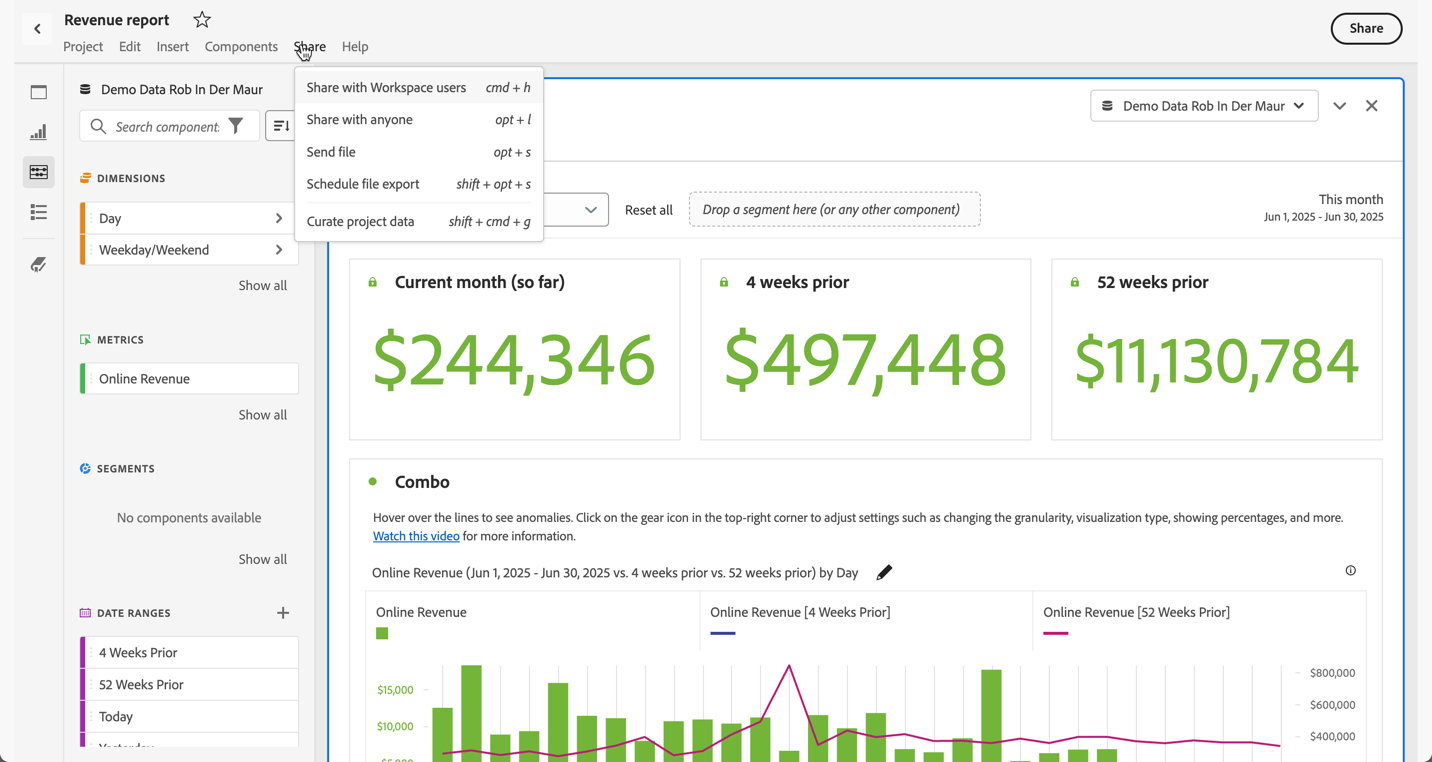
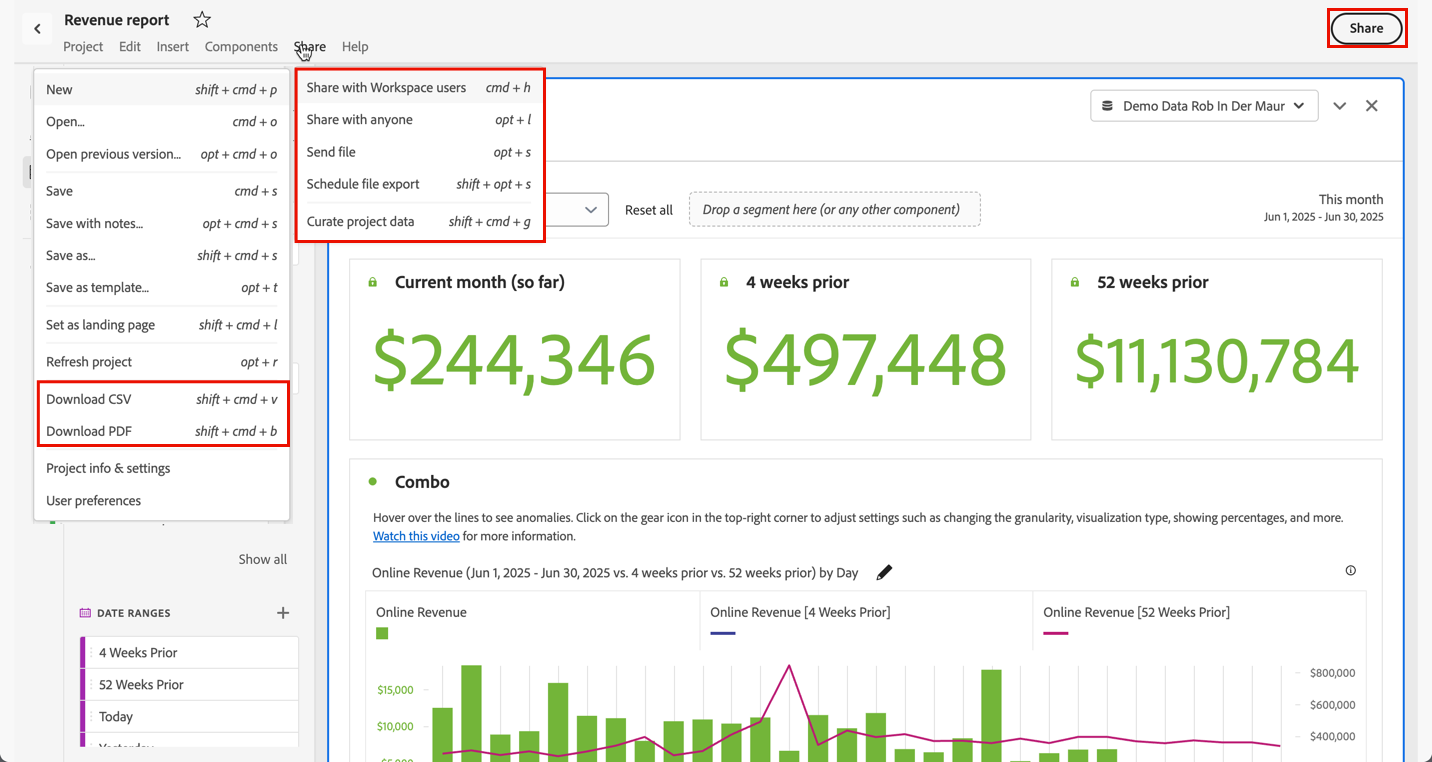
Updates

Changed region(s): [[0.0, 0.0906, 0.3687, 0.3924], [0.0, 0.4226, 0.2151, 0.6942], [0.9218, 0.0, 0.9832, 0.0604]]

diff --git a/help/analyze/analysis-workspace/curate-share/download-send.md b/help/analyze/analysis-workspace/curate-share/download-send.md
@@ -1,11 +1,126 @@
 ---
-description: You can download data from Analysis Workspace by copying it, or in PDF and CSV formats.
-title: Download PDF or CSV files
+description: Learn about the various possibilities to download data from your Analysis Workspace project.
+title: Download Analysis Workspace Projects And Data
 feature: Curate and Share
 role: User, Admin
 exl-id: 085013dc-8263-4fc8-9492-99f0ecadf14b
 ---
-# Download PDF or CSV files
+
+# Download projects and data
+
+You can download Analysis Workspace projects and data to your local device. This download can be copied data, a CSV (comma separated value data) file, or a PDF (portable document format) document. 
+
+* Select the PDF option if you want visualizations included in the downloaded file. 
+* Select the CSV and copied data options if you simply need plain-text data.
+
+Additional methods to export Adobe Analytics data are described in the [Export guide](/help/export/home.md).
+
+## Download as CSV or PDF {#download-project}
+
+![The Project drop-down menue with the Download CSV and Download PDF options highlighted.](assets/download-project.png)
+
+Consider the following when you download a project as a PDF:
+
+* The download can take several minutes as the project is rerun on Adobe servers to render in PDF format. Do not leave the project until the project downloads in your browser.  You can continue to make changes to the project while the download is rendered. If a PDF takes longer than 5 minutes to render, you are prompted to [email the PDF](../curate-share/send-schedule-files.md) instead.
+* Downloads are rendered as a single page with no pagination applied.
+* The PDF contain what is visible in the browser page in Analysis Workspace. You need to auto-size custom-sized visualizations and panels to avoid truncated content. Select ![Resize](/help/assets/icons/Resize.svg) to auto-size a custom-sized visualization or panel.
+* [Hyperlinks](/help/analysis-workspace/visualizations/freeform-table/freeform-table-hyperlinks.md) within freeform tables  as hyperlinks in the downloaded PDF. 
+
+
+
+To download a project as a PDF file:
+
+1. Select **[!UICONTROL Project]** > **[!UICONTROL Download PDF]**. 
+   A green bar with the message ![CheckmarkCircle](/help/assets/icons/CheckmarkCircle.svg) **[!UICONTROL Your download has been requested. Please wait.]** is displayed.
+   
+1. As soon your download is ready, a green bar with the message ![CheckmarkCircle](/help/assets/icons/CheckmarkCircle.svg) **[!UICONTROL *Name of the project* PDF is ready.]** appears.
+Select **[!UICONTROL Download]** to download the PDF. How exactly the PDF is presented or downloaded is dependent on your browser configuration to handle PDF documents.
+
+
+To download a project as a CSV file:
+
+* Select **[!UICONTROL Project]** > **[!UICONTROL Download CSV]**. The project directly downloads to the download folder configured as part of your browser configuration. The file name is composed of *project name* - *report suite name* - *date*, for example `Example Project - Omni-Channel - Luma - Jun 30, 2025.csv`.
+
+## Copy to clipboard {#copy-data}
+
+The **[!UICONTROL Copy to clipboard]** option from the context menu lets you quickly copy data from Analysis Workspace and paste the data in a third-party tool. 
+
+* If you want the displayed table data copied, select the table header and select **Copy data to clipboard** from the context menu.
+* If you want a subset of the data copied, make a selection in the table and select **Copy selection to clipboard** from the context menu.
+
+>[!TIP]
+>
+>You can use the hotkey **_cmd + c_** (macOS) or **_ctrl + c_** (Windows) to copy your selection to the clipboard. Then use **_cmd + v_** (macOS) or **_ctrl + v_** (Windows) to paste the data.
+
+
+![The Copy selection to clipboard option. ](assets/copy-clipboard.png){zoomable="yes"}
+
+## Download as CSV {#download-data}
+
+The download as CSV options from the context menu allow you to download a table of data or the data source of any visualization as a CSV.
+
+To do so:
+
+* From the header of any table or visualization, select **[!UICONTROL Download data as CSV]** from the context menu. This downloads the displayed data in the table or the underlying data source for a visualization as a CSV. 
+
+<!-- Only relevant as soon as CJA supports Map visualization 
+  >[!NOTE]
+  >
+  >  Note: the Map visualization does not support this option.
+-->
+
+* Within a table, select **[!UICONTROL Download selection as CSV]** from the context menu. Only the selection is downloaded with this option, as opposed to the full, displayed table.
+
+![The Download data as CSV option.](assets/download-data-as-csv.png)
+
+## Download items as CSV {#download-items}
+
+If you want to analyze more than the visible 400 rows of data in a table, select  **Download items as CSV (_Dimension name_)** from the context menu of the table header or any row. This option exports up to 50,000 dimension items (based on the table sort) for the selected dimension, with sort options and filters applied. If you select this option from the top of the table, the first dimension in the table is exported. 
+
+![The Download items as CSV (Page) option.](assets/download-items-as-csv.png)
+
+No limits are enforced in the freeform table. To ensure optimal performance, the recommendation is to use this option in tables with fewer than 20 columns.
+
+>[!TIP]
+>
+> If your dimension exceeds 50,000 items, download the file with different sort metrics applied or apply a segment. For example, sort descending by Visits in one download and then ascending by Visits in a second download. This tip can help you retrieve longer-tail items.
+
+You can multi-task within the project and even navigate to a new Workspace project in the same tab while the download is in progress. The download pauses if you open a new browser tab. The download is canceled if you leave Workspace completely or close the browser tab.
+
+
+### Downloaded items file {#items-file}
+
+The following features of a freeform table are applied to the downloaded file:
+
+* All panel segments are applied as filters.
+* Breakdowns **above** the selected dimension in the table are applied as filters above each column. 
+* Breakdowns **below** the selected dimension in the table are removed.
+
+![The downloaded .csv file opened in Excel.](assets/download-items-file.png)
+
+### Download notifications {#notifications}
+
+As the file downloads, you see the following notifications:
+
+* A blue **[!UICONTROL _Table name_ - _Dimension_.csv has been requested. _x_% complete]** indicating the progress. To cancel the download at any time, select **[!UICONTROL Cancel download]**. Select ![CrossSize100](/help/assets/icons/CrossSize100.svg) if you want to close the message, which does not cancel the download.
+* A green **[!UICONTROL _Table name_ - _Dimension_.csv has been downloaded]** completion notification once the file download is completed. The file is downloaded to the downloads folder configured for your browser.
+
+If you request more than one download at a time, you receive a notification that each additional download is queued until the prior download completes.
+
+
+## FAQ {#faq}
+
+| Question | Answer |
+| --- | --- |
+| Why does my downloaded PDF consist of of only one page? | The [Download PDF](#download-as-csv-or-pdf) functionality does not paginate downloaded PDFs. |
+| Can I export more than 50,000 items with the **[!UICONTROL Download items as CSV]** option? | While each download can contain up to 50,000 dimension items, you can change the sort of your table to retrieve longer tail items, or apply a filter to download more specific items. |
+| What does **[!UICONTROL Copy visualization]** do? | Unlike [!UICONTROL **Copy data to clipboard**] or [!UICONTROL **Copy selection to clipboard**], the **[!UICONTROL Copy visualization]** context menu option is not an export option. This option allows you to [copy a visualization](/help/analysis-workspace/visualizations/freeform-analysis-visualizations.md#context-menu) or [copy a panel](/help/analysis-workspace/c-panels/panels.md#context-menu) from one place in Workspace to another. For example, from one panel to another in the same project, or from one project to another project. |
+
+
+
+<!--
+
+# Download 
 
 There are several ways to export data from Analysis Workspace. The method you choose depends on what set of data you want to analyze and who needs to access it.
 
@@ -40,7 +155,7 @@ To download a project as a CSV or PDF file:
 1. (Conditional) If you chose to download a PDF, a message is shown after the project is ready to be downloaded. Click [!UICONTROL **Download**].
 1. Click the **[!UICONTROL Download this file]** icon and save the file to a folder of your choice.
 
-## Copy data to clipboard (hotkey: Ctrl+C) {#copy-data}
+## Copy data to clipboard (hotkey: cmd + c) {#copy-data}
 
 The right-click option **[!UICONTROL Copy to clipboard]** lets you quickly copy data from Workspace and paste it in a third-party tool. 
 
@@ -108,3 +223,5 @@ If you request more than one download at a time, you will receive a notification
 | Why is my downloaded PDF one page? | Workspace does not paginate downloaded PDFs at this time. |
 | Can I export more than 50,000 items with the "Download items as CSV" option? | While each download can contain up to 50,000 dimension items, you can change the sort of your table to retrieve longer tail items, or apply a filter to download more specific items. |
 | What does **[!UICONTROL Copy visualization]** do? | Unlike [!UICONTROL **Copy data to clipboard**] or [!UICONTROL **Copy selection to clipboard**], the **[!UICONTROL Copy visualization]** right-click option is not an export option. It allows you to copy a visualization or panel from one place in Workspace to another. For example, from one panel to another in the same project, or from one project to another project. [Intra-linking video](https://experienceleague.adobe.com/docs/analytics-learn/tutorials/analysis-workspace/visualizations/intra-linking-in-analysis-workspace.html) |
+
+-->

diff --git a/help/analyze/analysis-workspace/curate-share/curate.md b/help/analyze/analysis-workspace/curate-share/curate.md
@@ -1,7 +1,7 @@
 ---
-description: Curation lets you limit components before sharing a project.
+description: Learn how to curate projects in Analysis Workspace. Curation limits access to components before you share a project.
 keywords: Analysis Workspace curation
-title: Curate projects
+title: Curate Projects
 feature: Curate and Share
 role: User, Admin
 exl-id: 5e23be83-586a-4543-9be9-65c631b8b0b7
@@ -29,7 +29,6 @@ See ![VideoCheckedOut](/help/assets/icons/VideoCheckedOut.svg) [Curate projects]
 1. (Optional) To add more components, drag components you want to share from the left panel to the **[!UICONTROL Curate components]** drop zone for the data view. 
 1. Select **[!UICONTROL Done]**.
 
-Curation can also be applied from the [!UICONTROL Share] menu by Selecting **[!UICONTROL Curate and Share]**. This option automatically curates the project to the components in use in the project. You can add additional components following the steps above.
 
 ![](assets/curation-field.png)
 
@@ -66,6 +65,6 @@ Note: Non-admin view roles do not have access to the left rail in a project, so 
 
 |Curation Type|Admins|Non-Admin project owner or edit role|Non-Admin duplicate role|
 |---|---|---|---|
-|Curated Virtual report suite|All non-curated Virtual report suite components|Non-curated Virtual report suite components that this role owns or that have been shared with them|Non-curated Virtual report suite components that this role owns or that have been shared with them|
-|Curated Project|All non-curated project components|All non-curated project components|Non-curated project components that this role owns or that have been shared with them|
-|Curated Project in a Curated Virtual report suite| All non-curated components, shown under **[!UICONTROL Non-Curated Project Components]** and **[!UICONTROL Non-Curated Virtual report suite components]**| All non-curated project components AND non-curated Virtual report suite components that this role owns or that have been shared with them|Non-curated Virtual report suite and project components that this role owns or that have been shared with them|
+|**Curated Virtual report suite**|All non-curated Virtual report suite components|Non-curated Virtual report suite components that this role owns or that have been shared with them|Non-curated Virtual report suite components that this role owns or that have been shared with them|
+|**Curated Project**|All non-curated project components|All non-curated project components|Non-curated project components that this role owns or that have been shared with them|
+|**Curated Project in a Curated Virtual report suite**| All non-curated components, shown under **[!UICONTROL Non-Curated Project Components]** and **[!UICONTROL Non-Curated Virtual report suite components]**| All non-curated project components AND non-curated Virtual report suite components that this role owns or that have been shared with them|Non-curated Virtual report suite and project components that this role owns or that have been shared with them|

diff --git a/help/analyze/TOC.md b/help/analyze/TOC.md
@@ -22,6 +22,7 @@ user-guide-description: Learn how to use Analytics tools, including Analysis Wor
   + [Analysis Workspace overview](analysis-workspace/home.md)
   + Projects {#build-workspace-project}
     + [Overview](analysis-workspace/build-workspace-project/freeform-overview.md)
+    + [Quickly start projects](analysis-workspace/build-workspace-project/starter-projects.md)
     + [Create projects](analysis-workspace/build-workspace-project/create-projects.md)
     + [Open projects](analysis-workspace/build-workspace-project/open-projects.md)
     + [Save projects](analysis-workspace/build-workspace-project/save-projects.md)
@@ -31,7 +32,6 @@ user-guide-description: Learn how to use Analytics tools, including Analysis Wor
       + [Create folders](analysis-workspace/build-workspace-project/workspace-folders/create-folders.md)
       + [Manage folders](analysis-workspace/build-workspace-project/workspace-folders/manage-folders.md)
       + [Add or move projects](analysis-workspace/build-workspace-project/workspace-folders/add-projects.md)
-    + [Tempates](analysis-workspace/build-workspace-project/starter-projects.md)
     + [Multiple report suites](analysis-workspace/build-workspace-project/multiple-report-suites.md)
     + [Hotkeys](analysis-workspace/build-workspace-project/fa-shortcut-keys.md)
     + [Color palettes](analysis-workspace/build-workspace-project/color-palettes.md)
@@ -125,14 +125,14 @@ user-guide-description: Learn how to use Analytics tools, including Analysis Wor
       + [Overview](analysis-workspace/c-panels/c-segment-comparison/segment-comparison.md)
       + [Use cases](analysis-workspace/c-panels/c-segment-comparison/segment-compare-use-cases.md)
       + [Statistical tests used](analysis-workspace/c-panels/c-segment-comparison/statistical-test.md)
-  + Curate, Share, and Schedule projects {#curate-share}
+  + Curate and share projects {#curate-share}
     + [Overview](analysis-workspace/curate-share/send-schedule-files.md)
     + [Curate projects](analysis-workspace/curate-share/curate.md)
     + [Share projects](analysis-workspace/curate-share/share-projects.md)
     + [Create shareable links](analysis-workspace/curate-share/shareable-links.md)
     + [Read-only projects](analysis-workspace/curate-share/view-only-projects.md)
-    + [Download PDF or CSV files](analysis-workspace/curate-share/download-send.md)
-    + [Schedule projects](analysis-workspace/curate-share/t-schedule-report.md)
+    + [Download projects](analysis-workspace/curate-share/download-send.md)
+    + [Send and schedule projects](analysis-workspace/curate-share/t-schedule-report.md)
   + Attribution {#attribution}
     + [Attribution overview](analysis-workspace/attribution/overview.md)
     + [Attribution models and lookback windows](analysis-workspace/attribution/models.md)

diff --git a/help/analyze/analysis-workspace/curate-share/send-schedule-files.md b/help/analyze/analysis-workspace/curate-share/send-schedule-files.md
@@ -1,20 +1,21 @@
 ---
-description: Learn more about the Workspace Share options.
-title: Share overview
+description: Learn more about the available options to curate and share Analysis Workspace projects.
+title: Curate And Share Projects Overview
 feature: Curate and Share
 role: User, Admin
 exl-id: 38b92af3-646d-4c30-84ab-a0007c0a39e8
 ---
-# Share overview
+# Curate and share projects overview
 
-You can curate, share and schedule projects as PDF or CSV files to recipients in your organization or with anyone else using the options available from the **[!UICONTROL Share]** menu in Analysis Workspace or when you select **[!UICONTROL Share]** at the top right of the interface.
+You can curate and share projects, or send and download projects as PDF or CSV files to recipients in your organization or with anyone else using the options available from the **[!UICONTROL Share]** menu in Analysis Workspace or when you select **[!UICONTROL Share]** at the top right of the interface.
 
 ![Share options](assets/share-options.png)
 
 | Option|Description|
 |---|---|
+| **[!UICONTROL Curate project data]** | Limit the components (dimensions, metrics, segments, date ranges) available in a project. [Learn more](/help/analyze/analysis-workspace/curate-share/curate.md)|
 | **[!UICONTROL Share with Workspace users]** | Make a project available to other Analysis Workspace users in your organization. Share with specific users, or create a shareable link for quick access to a project. Users are required to log in. [Learn more](/help/analyze/analysis-workspace/curate-share/share-projects.md)|
 | **[!UICONTROL Share with anyone]** |Grant read-only access to Analysis Workspace projects to people who don't have access to Adobe Analytics. [Learn more](/help/analyze/analysis-workspace/curate-share/share-projects.md)|
 | **[!UICONTROL Send file]** |Send a project as a CSV or PDF immediately to specified recipients. [Learn more](/help/analyze/analysis-workspace/curate-share/t-schedule-report.md)|
 | **[!UICONTROL Schedule file export]** |Send a project as a CSV or PDF on a schedule to specified recipients. [Learn more](/help/analyze/analysis-workspace/curate-share/t-schedule-report.md)|
-| **[!UICONTROL Curate project data]** | Limit the components (dimensions, metrics, segments, date ranges) available in a project. [Learn more](/help/analyze/analysis-workspace/curate-share/curate.md)|
+| **[!UICONTROL Download as CSV]**<br/>**[!UICONTROL Download as PDF]**| Download a project as CSV of PDF. [Learn more](download-send.md). |

diff --git a/help/analyze/analysis-workspace/curate-share/view-only-projects.md b/help/analyze/analysis-workspace/curate-share/view-only-projects.md
@@ -1,7 +1,7 @@
 ---
-description: View-only projects in Workspace
-keywords: View-only projects
-title: View-only projects
+description: Understand the experience of read-only projects in Analysis Workspace.
+keywords: Read-only projects
+title: Read-Only Projects
 feature: Curate and Share
 role: User, Admin
 exl-id: 53372247-6902-4c7f-9132-38a1d453186c
@@ -37,10 +37,10 @@ Some of the more notable enabled interactions in a view-only project include:
 
 | Area | Enabled interactions |
 | --- | --- |
-| Freeform tables | <ul><li>Pagination and sorting</li><li>Hovering</li><li>Cell selections that update linked visualizations</li><li>From the context menu > Get Visualization Link</li><li>From the context menu > Copy to Clipboard</li></ul> |
-| Visualizations | <ul><li>Clicking to turn on/off legend</li><li>Hovering</li><li>From the context menu > Get Visualization Link</li><li>Collapse/expand</li><li>Flow - expand Flow nodes</li><li>Map - zoom</li></ul> |
-| Panels | <ul><li>Interactive drop-down segments</li><li>From the context menu > Get Panel Link</li><li>Collapse/expand</li></ul> |
-| Project | <ul><li>Inspecting all info icons</li><li>Project menu - New, Open, Set as landing page, Refresh, Download CSV/PDF, limited Project Info & Settings</li><li>Share menu - Get project link, Send file now</li><li>Help menu - All actions except Tips & Debugger options</li></ul> |
+| **Freeform tables** |<li>Pagination and sorting</li><li>Hovering</li><li>Cell selections that update linked visualizations</li><li>From the context menu > Get Visualization Link</li><li>From the context menu > Copy to Clipboard</li> |
+| **Visualizations** | <li>Clicking to turn on/off legend</li><li>Hovering</li><li>From the context menu > Get Visualization Link</li><li>Collapse/expand</li><li>Flow - expand Flow nodes</li><li>Map - zoom</li></ul> |
+| **Panels** | <li>Interactive drop-down segments</li><li>From the context menu > Get Panel Link</li><li>Collapse/expand</li> |
+| **Project** | <li>Inspecting all info icons</li><li>Project menu - New, Open, Set as landing page, Refresh, Download CSV/PDF, limited Project Info & Settings</li><li>Share menu - Get project link, Send file now</li><li>Help menu - All actions except Tips & Debugger options</li> |
 
 
 ## Share with anyone experience

diff --git a/help/analyze/analysis-workspace/curate-share/t-schedule-report.md b/help/analyze/analysis-workspace/curate-share/t-schedule-report.md
@@ -1,14 +1,14 @@
 ---
-description: Send an Analysis Workspace project using email or schedule it for delivery.
+description: Learn how to send an Analysis Workspace project directly or on a schedule for email delivery.
 keywords: Analysis Workspace
-title: Schedule projects
+title: Send And Schedule Projects
 feature: Curate and Share
 role: User, Admin
 exl-id: 2d6854f7-8954-4d55-b2be-25981cfb348b
 ---
-# Send files to others
+# Send and schedule
 
-You can send Adobe Analytics reports as files to selected users by email. You can send files ad hoc, or you can configure files to be sent on a schedule. Files can be sent in CSV or PDF format.
+You can send Adobe Analytics projects as files to selected users by email. You can send files ad hoc, or you can configure files to be sent on a schedule. Files can be sent in CSV or PDF format.
 
 Any tags applied to the project are automatically applied to the export.
 
@@ -18,7 +18,7 @@ Other methods of exporting Adobe Analytics data are also available, as described
 
 ## Send file
 
-To send a file to recipients by email:
+To send a file ad-hoc to recipients by email:
 
 1. Select **[!UICONTROL Share] > [!UICONTROL Send file]**.
 1. Specify the file type:
@@ -60,7 +60,7 @@ To send a file on a schedule to recipients by email
 1. Select **[!UICONTROL Send on schedule]**. Select **[!UICONTROL Cancel]** to cancel.
 
 
-## Scheduled Projects manager {#manager}
+## Scheduled projects manager {#manager}
 
 Scheduled Analysis Workspace projects can be managed from the main interface, using **[!UICONTROL Components]** > **[!UICONTROL Scheduled Projects]**. For more information, see [Scheduled projects](/help/components/scheduled-projects-manager.md).
 

diff --git a/help/analyze/analysis-workspace/curate-share/shareable-links.md b/help/analyze/analysis-workspace/curate-share/shareable-links.md
@@ -1,7 +1,7 @@
 ---
-description: Learn how to create shareable links to projects or visualizations
+description: Learn how to create shareable links to projects or visualizations.
 keywords: Analysis Workspace sharing
-title: Create shareable links
+title: Create Shareable Links
 feature: Curate and Share
 role: User, Admin
 exl-id: 39fbe18c-2f75-4026-b277-58ec08c6a645
@@ -33,7 +33,7 @@ You can also share a link to a specific part of a project, such as a panel or in
 
 ![The drop-down menu after you right-click the header with the Get visualization link highlighted.](assets/get-visualization-link.png)
 
-## Use links in a Table of contents {#TOC} 
+## Use links in a table of contents {#TOC} 
 
 One tip for leveraging the various link options is to always include a table of contents at the top of your Workspace project. In the table of contents, you can link to other relevant projects, specific panels and specific visualizations. This helps the recipient of the project to navigate more easily.  
 

diff --git a/help/analyze/analysis-workspace/build-workspace-project/starter-projects.md b/help/analyze/analysis-workspace/build-workspace-project/starter-projects.md
@@ -1,13 +1,13 @@
 ---
-description: Learn how to quickly create a project based on common reporting scenarios using templates in Analysis Workspace.
-title: Templates
+description: Learn how to quickly start a project based on common reporting scenarios using templates in Analysis Workspace.
+title: Quickly Start Projects
 feature: Workspace Basics
 role: User, Admin
 exl-id: 751399fe-6d4f-47cc-8827-82c992079b52
 ---
-# Templates 
+# Quickly start a project 
 
-Templates (or company templates) in Analysis Workspace provide quick insights into the most common reporting scenarios. 
+You can quickly start a project with relevant relevant panels and visualization. To do so, use templates (or company templates) in Analysis Workspace. Templates provide quick insights into the most common reporting scenarios. 
 
 For information about using templates in Adobe Analytics, see the following resources:
 

diff --git a/help/analyze/analysis-workspace/curate-share/share-projects.md b/help/analyze/analysis-workspace/curate-share/share-projects.md
@@ -1,7 +1,7 @@
 ---
-description: Project sharing and project roles in Workspace
+description: Learn how to share project and project roles in Workspace
 keywords: Analysis Workspace sharing
-title: Share projects
+title: Share Projects
 feature: Curate and Share
 role: User, Admin
 exl-id: da106eb1-7f5c-469a-a8aa-8497fc3706dc
@@ -40,7 +40,7 @@ See ![VideoCheckedOut](/help/assets/icons/VideoCheckedOut.svg) [Share projects](
 >[!ENDSHADEBOX]
 
 
-## Share with Analysis Workspace users and groups in your organization {#Add}
+## Share with users and groups in your organization {#Add}
 
 You can share a project with existing Analysis Workspace users or groups in your organization. When you share a project as described in this section, the users you share with must already have access to Adobe Analytics.
 
